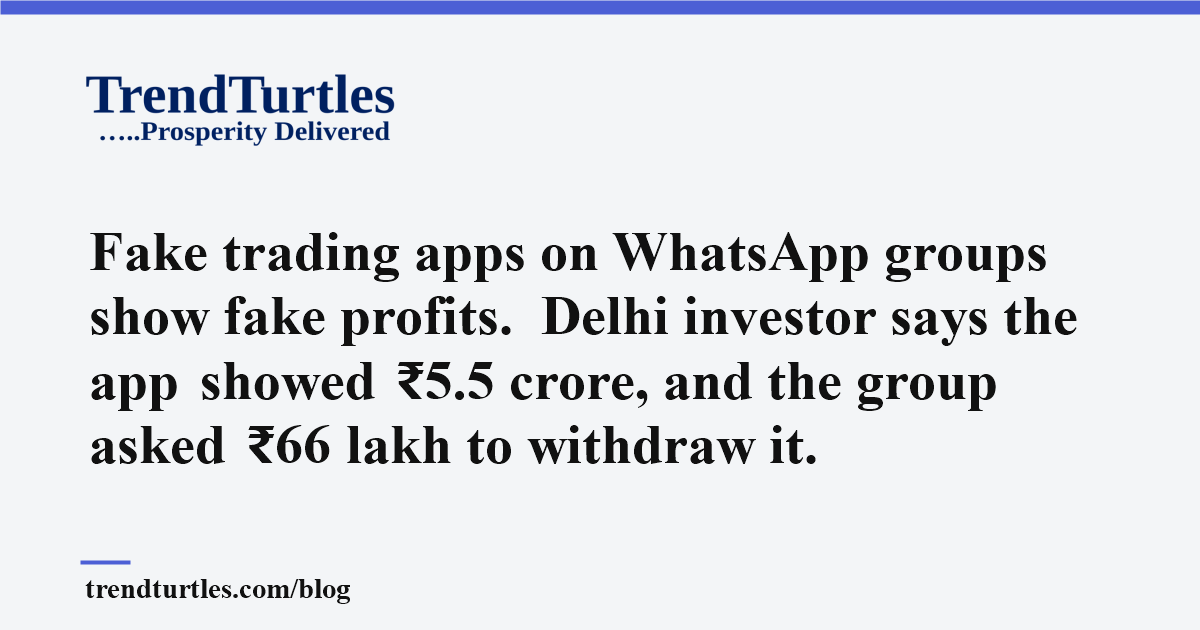
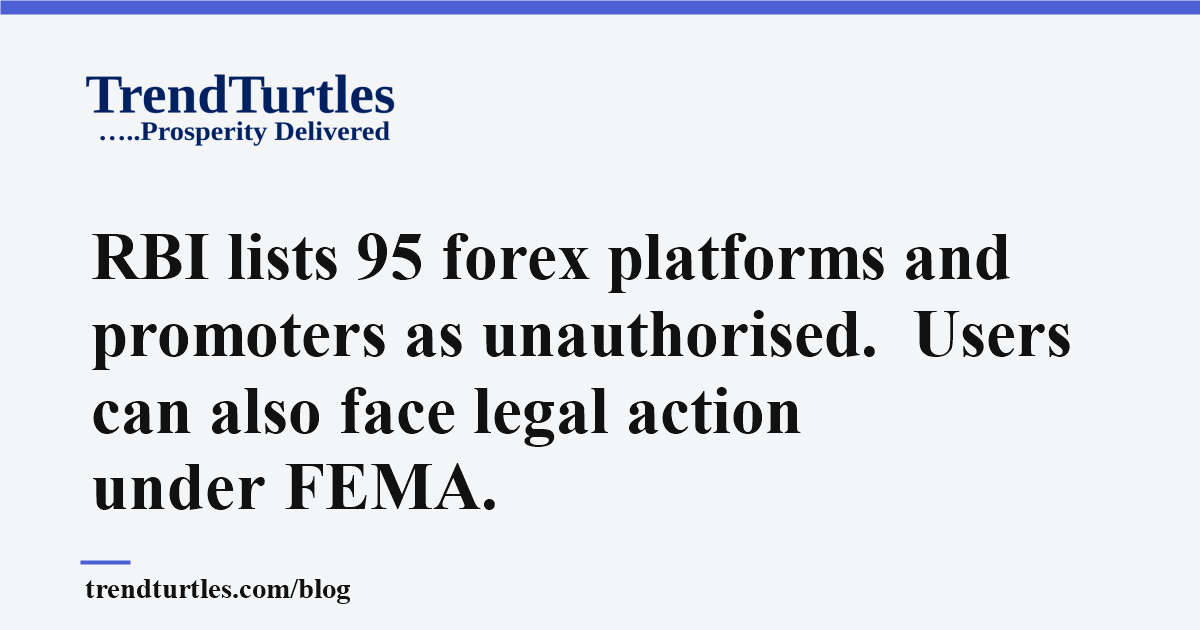
Rewrite: trading app article on RBI Alert List and FEMA (full research redo); new share image, index card, related links, sitemap

Changed region(s): [[0.0617, 0.3619, 0.8942, 0.8143]]

diff --git a/blog/trading-app-real-or-fake-india.html b/blog/trading-app-real-or-fake-india.html
@@ -3,22 +3,22 @@
 <head>
     <meta charset="UTF-8">
     <meta name="viewport" content="width=device-width, initial-scale=1.0">
-    <title>Trading App Real or Fake? How to Check Before You Pay</title>
-    <meta name="description" content="Is a trading app real or fake? A Delhi investor says an app showed ₹5.5 crore, then the group asked ₹66 lakh to withdraw it. SEBI's checks for any app.">
+    <title>Is This Trading App Safe? How to Check RBI and SEBI Lists</title>
+    <meta name="description" content="Is this trading app safe? RBI lists 95 forex platforms and promoters as unauthorised, and users can face legal action. How to check RBI and SEBI lists.">
     <meta name="author" content="Mayank Gola">
     <meta name="robots" content="index, follow, max-snippet:-1, max-image-preview:large, max-video-preview:-1">
-    <meta property="og:title" content="Trading App Real or Fake? How to Check Before You Pay">
-    <meta property="og:description" content="Is a trading app real or fake? A Delhi investor says an app showed ₹5.5 crore, then the group asked ₹66 lakh to withdraw it. SEBI's checks for any app.">
+    <meta property="og:title" content="Is This Trading App Safe? How to Check RBI and SEBI Lists">
+    <meta property="og:description" content="Is this trading app safe? RBI lists 95 forex platforms and promoters as unauthorised, and users can face legal action. How to check RBI and SEBI lists.">
     <meta property="og:url" content="https://trendturtles.com/blog/trading-app-real-or-fake-india.html">
     <meta property="og:type" content="article">
     <meta property="og:site_name" content="TrendTurtles">
-    <meta property="og:image" content="https://trendturtles.com/assets/images/trading-app-real-or-fake-india-share.png">
+    <meta property="og:image" content="https://trendturtles.com/assets/images/trading-app-real-or-fake-india-share.png?v=2">
     <meta property="og:image:width" content="1200">
     <meta property="og:image:height" content="630">
     <meta name="twitter:card" content="summary_large_image">
-    <meta name="twitter:title" content="Trading App Real or Fake? How to Check Before You Pay">
-    <meta name="twitter:description" content="Is a trading app real or fake? A Delhi investor says an app showed ₹5.5 crore, then the group asked ₹66 lakh to withdraw it. SEBI's checks for any app.">
-    <meta name="twitter:image" content="https://trendturtles.com/assets/images/trading-app-real-or-fake-india-share.png">
+    <meta name="twitter:title" content="Is This Trading App Safe? How to Check RBI and SEBI Lists">
+    <meta name="twitter:description" content="Is this trading app safe? RBI lists 95 forex platforms and promoters as unauthorised, and users can face legal action. How to check RBI and SEBI lists.">
+    <meta name="twitter:image" content="https://trendturtles.com/assets/images/trading-app-real-or-fake-india-share.png?v=2">
     <link rel="canonical" href="https://trendturtles.com/blog/trading-app-real-or-fake-india.html">
     <link rel="icon" href="/favicon.ico" sizes="any">
     <link rel="icon" href="/favicon-512.png" type="image/png">
@@ -29,13 +29,13 @@
     {
     "@context": "https://schema.org",
     "@type": "BlogPosting",
-    "headline": "Trading App Real or Fake? How to Check Before You Pay",
-    "description": "Is a trading app real or fake? A Delhi investor says an app showed ₹5.5 crore, then the group asked ₹66 lakh to withdraw it. SEBI's checks for any app.",
+    "headline": "RBI lists 95 forex platforms and promoters as unauthorised. Users can also face legal action under FEMA.",
+    "description": "Is this trading app safe? RBI lists 95 forex platforms and promoters as unauthorised, and users can face legal action. How to check RBI and SEBI lists.",
     "mainEntityOfPage": "https://trendturtles.com/blog/trading-app-real-or-fake-india.html",
     "datePublished": "2026-11-15",
-    "dateModified": "2026-11-15",
+    "dateModified": "2026-11-16",
     "inLanguage": "en-IN",
-    "image": "https://trendturtles.com/assets/images/trading-app-real-or-fake-india-share.png",
+    "image": "https://trendturtles.com/assets/images/trading-app-real-or-fake-india-share.png?v=2",
     "author": {
         "@type": "Person",
         "name": "Mayank Gola",
@@ -61,7 +61,7 @@
     "itemListElement": [
         {"@type": "ListItem", "position": 1, "name": "Home", "item": "https://trendturtles.com/"},
         {"@type": "ListItem", "position": 2, "name": "Blog", "item": "https://trendturtles.com/blog/"},
-        {"@type": "ListItem", "position": 3, "name": "Trading App Real or Fake", "item": "https://trendturtles.com/blog/trading-app-real-or-fake-india.html"}
+        {"@type": "ListItem", "position": 3, "name": "Is This Trading App Safe", "item": "https://trendturtles.com/blog/trading-app-real-or-fake-india.html"}
     ]
 }
     </script>
@@ -70,8 +70,10 @@
     "@context": "https://schema.org",
     "@type": "FAQPage",
     "mainEntity": [
-        {"@type": "Question", "name": "Does the Verified label work on iPhone apps?", "acceptedAnswer": {"@type": "Answer", "text": "No. SEBI started the label on Google Play. On an iPhone, find the app's company on SEBI's list of registered brokers (see section 4)."}},
-        {"@type": "Question", "name": "Is every app shared in a WhatsApp group fake?", "acceptedAnswer": {"@type": "Answer", "text": "Treat it as unsafe. SEBI says do not open an account on, or send money to, any trading app suggested in these groups (see section 4)."}}
+        {"@type": "Question", "name": "Is there a legal way to trade currencies in India?", "acceptedAnswer": {"@type": "Answer", "text": "Yes, on India's stock exchanges (NSE, BSE and MSE), or on platforms RBI has authorised. But dollar-rupee and other rupee trades are allowed \"only for the purpose of hedging\". In simple words: only to protect against a real currency risk, such as a payment due abroad, not to bet."}},
+        {"@type": "Question", "name": "Can a court make Google refund money lost on a trading app?", "acceptedAnswer": {"@type": "Answer", "text": "One High Court said no. In March 2026, the Madhya Pradesh High Court turned down a man who had lost money on Olymp Trade and wanted Google to refund him. The court said he downloaded the app \"with wide open eyes\" and invested on his own. In simple words: he chose the app himself, so Google is not to blame."}},
+        {"@type": "Question", "name": "Are binary options banned anywhere?", "acceptedAnswer": {"@type": "Answer", "text": "Yes. In 2018, the European Union's market regulator banned selling binary options to ordinary investors."}},
+        {"@type": "Question", "name": "Does SEBI's Verified label cover forex apps?", "acceptedAnswer": {"@type": "Answer", "text": "No. It is for share trading apps of SEBI-registered brokers (see section 6)."}}
     ]
 }
     </script>
@@ -98,75 +100,94 @@
     <p class="breadcrumb">
         <a href="../index.html">Home</a> &rsaquo;
         <a href="index.html">Blog</a> &rsaquo;
-        <span class="current">Trading App Real or Fake</span>
+        <span class="current">Is This Trading App Safe</span>
     </p>
-    <h1>Fake trading apps on WhatsApp groups show fake profits.  Delhi investor says the app showed ₹5.5 crore, and the group asked ₹66 lakh to withdraw it.</h1>
-    <p class="dek">Indians lost ₹22,495 crore to cyber fraud in 2025, and investment scams made up 75% of it.</p>
-    <p class="dek-source">Source: Delhi Police case, reported by <a href="https://the420.in/delhi-online-trading-ipo-investment-fraud-cases/" target="_blank" rel="noopener noreferrer">The420 on 24 October 2026</a>; loss figures from <a href="https://theprint.in/india/cybercrime-saw-24-spike-in-2025-indians-lost-rs-22495-crore-mainly-in-investment-scams/2859930/" target="_blank" rel="noopener noreferrer">ThePrint, 21 February 2026</a>.</p>
+    <h1>RBI lists 95 forex platforms and promoters as unauthorised.  Users can also face legal action under FEMA.</h1>
+    <p class="dek">The list had 34 names in 2022. A Pune office worker took a gold loan to put ₹8 lakh into forex trading. His complaint led to a probe of OctaFX, an app now on the list.</p>
+    <p class="dek-source">Source: RBI's <a href="https://rbi.org.in/scripts/bs_viewcontent.aspx?Id=4235" target="_blank" rel="noopener noreferrer">Alert List, updated on 19 November 2025</a>; <a href="https://www.business-standard.com/amp/article/finance/rbi-releases-alert-list-of-34-entities-barred-from-forex-trades-122090701239_1.html" target="_blank" rel="noopener noreferrer">Business Standard, 7 September 2022</a>; <a href="https://theprint.in/india/how-a-pune-investors-complaint-blew-lid-off-rs-900-cr-fraud-linked-to-octafx-forex-trading-platform/2316478" target="_blank" rel="noopener noreferrer">ThePrint, 19 October 2024</a>.</p>
 </section>
 
 <section class="section">
 
     <p class="byline">
-        By <strong>Mayank Gola</strong>, TrendTurtles &nbsp;·&nbsp; 4 min read &nbsp;·&nbsp; Published: November 2026
+        By <strong>Mayank Gola</strong>, TrendTurtles &nbsp;·&nbsp; 7 min read &nbsp;·&nbsp; Published: November 2026
     </p>
 
-    <p>Is a trading app real or fake? An investor in west Delhi learned the answer only after paying. The investor says it began in a WhatsApp group, where people said they were a company's staff and financial consultants. They suggested an online trading app. The app showed gains, so the investor kept sending money, in many payments, to bank accounts the group gave.</p>
-    <p>Soon the app showed about ₹5.5 crore as the investor's money. On 5 August 2026, the investor asked to take money out. The investor says the group first asked for ₹66 lakh as "service charges". The investor paid ₹10 lakh to take out part of the money, and the group then asked for ₹23 lakh more. The investor told the police the loss is ₹64.4 lakh, <a href="https://the420.in/delhi-online-trading-ipo-investment-fraud-cases/" target="_blank" rel="noopener noreferrer">The420 reported</a>. The police have filed a case, and these claims are not yet proved in court.</p>
-    <p>This article shows how such apps work, and how to check any app before you pay.</p>
+    <p>Harshal Pinjan, an office worker in Pune, got WhatsApp links and videos about forex trading from someone he knew. Forex trading means buying and selling currencies, like dollars, to profit when prices change. He was promised his money would double or even triple. So he took a gold loan and withdrew his LIC investments to put ₹8 lakh into a forex app.</p>
+    <p>He found he had been cheated, and went to the police in December 2021, <a href="https://theprint.in/india/how-a-pune-investors-complaint-blew-lid-off-rs-900-cr-fraud-linked-to-octafx-forex-trading-platform/2316478" target="_blank" rel="noopener noreferrer">ThePrint reported</a>. In 2022, the Enforcement Directorate (ED), the agency that probes money crimes, started its own case against the app, OctaFX. So is the trading app on your phone safe? First, see what these apps sell.</p>
 
-    <h2 id="how-it-works">1. How These WhatsApp Groups Work</h2>
-    <p>SEBI, the body that controls the share market, warned on 22 October 2026 that <a href="https://www.sebi.gov.in/sebi_data/attachdocs/oct-2026/1792675550417.pdf" target="_blank" rel="noopener noreferrer">"certain unregistered persons are offering stock tips and trading calls to investors through invitation-only WhatsApp groups"</a>. In simple words: people with no permission from SEBI run private WhatsApp groups and give share tips. Registered means SEBI has allowed the firm to work.</p>
-    <p>The group's owners pretend to be market experts, mostly using foreign numbers. Some members post fake profits and praise the "expert", so others trust the group. When a group is closed, its members are asked to join a new one.</p>
-    <p>Then the group suggests an app, which shows profit. Why can that profit not be taken out?</p>
+    <h2 id="what-they-sell">1. What These Apps Sell</h2>
+    <p>Some trading apps sell <a href="https://www.cftc.gov/LearnAndProtect/AdvisoriesAndArticles/fraudadv_binaryoptions.html" target="_blank" rel="noopener noreferrer">"binary options"</a>. In a binary option, you bet whether a price will be up or down at a set time.</p>
+    <p>US regulators say a binary option pays <a href="https://www.cftc.gov/LearnAndProtect/AdvisoriesAndArticles/fraudadv_binaryoptions.html" target="_blank" rel="noopener noreferrer">"either a pre-determined amount of cash or nothing at all"</a>. They add that "the expected return on investment is actually negative". In simple words: over many bets, the buyer loses money.</p>
+    <p>So how do these apps reach people in India?</p>
 
-    <h2 id="fake-profit">2. Why the Money on the Screen Is Not Real</h2>
-    <p>SEBI asks investors to <a href="https://www.sebi.gov.in/sebi_data/attachdocs/oct-2026/1792675550417.pdf" target="_blank" rel="noopener noreferrer">deal only with firms registered with SEBI</a>. A broker is a firm that SEBI allows to buy shares for you, and your money goes to your account with that broker. In the Delhi case, the investor says the money went to bank accounts the group gave. SEBI says fake apps make people think their money is in the <a href="https://www.sebi.gov.in/sebi_data/attachdocs/mar-2026/1774448914437.pdf" target="_blank" rel="noopener noreferrer">share market</a>. If the investor is right, the app's money was only a number on the screen.</p>
-    <p>Is this one unlucky person, or a bigger problem?</p>
+    <h2 id="how-they-reach-you">2. How These Apps Reach You</h2>
+    <p>RBI, India's central bank, says these platforms advertise on <a href="https://www.rbi.org.in/Scripts/BS_PressReleaseDisplay.aspx?prid=53216" target="_blank" rel="noopener noreferrer">social media, search engines, OTT platforms and gaming apps</a>, and that their agents also contact people directly. ED says OctaFX was <a href="https://enforcementdirectorate.gov.in/media/press-release-documents/ffdf98b7-8309-4832-a800-9e1611e25cec_Press%20Release%20PAO%20OctaFX%20372025%203.pdf" target="_blank" rel="noopener noreferrer">promoted through IPL, social media and celebrities</a>.</p>
+    <p>Some people sell "training" or "advice" about these apps on social media and video sites, or offer "demo trading" with practice money. RBI <a href="https://www.rbi.org.in/Scripts/BS_PressReleaseDisplay.aspx?prid=55201" target="_blank" rel="noopener noreferrer">warns about these too</a>. SEBI, the body that controls the share market, warns about <a href="https://www.sebi.gov.in/sebi_data/attachdocs/oct-2026/1792675550417.pdf" target="_blank" rel="noopener noreferrer">invitation-only WhatsApp groups</a>, and asks people not to open an account on any app suggested there.</p>
+    <p>And when people pay, where does the money go?</p>
 
-    <h2 id="how-big">3. Not Just One Case</h2>
-    <p><a href="https://the420.in/delhi-online-trading-ipo-investment-fraud-cases/" target="_blank" rel="noopener noreferrer">The420's report</a> has a second case. A person in Rohini, Delhi, says they lost about ₹57 lakh on an investment site from social media. So how do you check an app before you pay?</p>
+    <h2 id="where-money-goes">3. Where the Money Goes, and Why Users Lose</h2>
+    <p>ED says OctaFX took money <a href="https://enforcementdirectorate.gov.in/media/press-release-documents/a490dca5-edac-400a-b916-0d73fe571ee6_Press%20Release-%20PAO%20OctaFX%20-17.10.2025%204.pdf" target="_blank" rel="noopener noreferrer">through UPI and bank transfers</a>, into the accounts of fake Indian firms and of individuals. Then it moved the money through many "mule accounts". Mule accounts are bank accounts in other people's names, used to pass money on. Part of the money went abroad as fake payments for software, and part was kept in cryptocurrency.</p>
+    <p>ED also says early users got small profits "to build trust", while the app used fake price charts to make sure users lost. By ED's count, OctaFX took about ₹1,875 crore from Indians in just nine months, July 2022 to April 2023. ED has frozen assets worth over ₹2,681 crore, so they cannot be sold or moved. The case is <a href="https://indiankanoon.org/doc/95089971/" target="_blank" rel="noopener noreferrer">still in court</a>, so no court has yet decided whether OctaFX broke the law.</p>
+    <p>A pharmacist in Chinchwad, Pune, says that in 2025 another "binary trading" app <a href="https://medicaldialogues.in/amp/news/industry/pharma/pune-pharmacist-duped-of-rs-14-lakh-in-binary-trading-scam-over-fake-rs-68-lakh-profits-178688" target="_blank" rel="noopener noreferrer">showed him big profits</a>, then blocked his account when he tried to take money out. So is there an official list of such apps?</p>
 
-    <h2 id="how-to-check">4. How to Check if a Trading App Is Real or Fake</h2>
-    <p>SEBI gives three checks: <a href="https://www.sebi.gov.in/sebi_data/attachdocs/mar-2026/1774448914437.pdf" target="_blank" rel="noopener noreferrer">Check, Validate, Verify</a>.</p>
-    <ol>
-        <li><strong>Check the bank account.</strong> Before you pay, check the account number in SEBI's Saathi app, under "SEBI Check".</li>
-        <li><strong>Validate the UPI ID you pay to.</strong> SEBI says to check that the UPI ID has the word "Valid" in it. You can confirm it in SEBI Check too.</li>
-        <li><strong>Verify the app.</strong> On Google Play, the apps of brokers registered with SEBI show a "Verified" label. Look for it before you install. On an iPhone, find the app's company on <a href="https://www.sebi.gov.in/intermediaries.html" target="_blank" rel="noopener noreferrer">SEBI's list of registered brokers</a> instead.</li>
-        <li><strong>Do not pay to take money out.</strong> If an app asks for fees first, stop paying.</li>
-        <li><strong>Report it fast.</strong> Call 1930, the <a href="https://www.pib.gov.in/PressReleseDetailm.aspx?PRID=2042130" target="_blank" rel="noopener noreferrer">national helpline for online money fraud</a>, or file a complaint on cybercrime.gov.in. Keep screenshots and payment receipts.</li>
-</ol>
+    <h2 id="alert-list">4. RBI's Alert List, and Four Apps We Checked</h2>
+    <p>RBI keeps an <a href="https://rbi.org.in/scripts/bs_viewcontent.aspx?Id=4235" target="_blank" rel="noopener noreferrer">Alert List</a> of apps and websites that are not authorised to offer forex trading. Authorised means RBI has allowed it under FEMA, India's law on foreign currency. The list also names promoters, the people and firms that advertise such apps. Its latest update, on 19 November 2025, has 95 names. RBI also keeps a <a href="https://rbi.org.in/scripts/bs_viewcontent.aspx?Id=4080" target="_blank" rel="noopener noreferrer">list of authorised platforms</a>.</p>
+    <p>Our Google Trends data shows that searches in India for Pocket Option, Olymp Trade and Deriv rose in the 12 months to 31 October 2026. On 16 November 2026, we searched both RBI lists for these three apps and OctaFX.</p>
     <div style="overflow-x: auto;">
     <table class="text-table">
-        <tr><td><strong></strong></td><td><strong>Real broker app</strong></td><td><strong>App from a WhatsApp group</strong></td></tr>
-        <tr><td>Allowed by SEBI</td><td>Yes</td><td>Not shown</td></tr>
-        <tr><td>"Verified" label on Google Play</td><td>Yes</td><td>No</td></tr>
-        <tr><td>Where your money goes</td><td>Your account with the broker</td><td>Bank accounts the group gives</td></tr>
-        <tr><td>Taking money out</td><td>Sent to your bank account</td><td>Delhi case (investor's claim): the group asks for more money first</td></tr>
+        <tr><td><strong>App</strong></td><td><strong>On RBI's Alert List?</strong></td><td><strong>On RBI's list of authorised platforms?</strong></td></tr>
+        <tr><td>OctaFX</td><td>Yes, entry 27 of 95</td><td>No</td></tr>
+        <tr><td>Olymp Trade</td><td>Yes, entry 28 of 95</td><td>No</td></tr>
+        <tr><td>Pocket Option</td><td>Yes, entry 37 of 95</td><td>No</td></tr>
+        <tr><td>Deriv</td><td>No</td><td>No</td></tr>
     </table>
     </div>
-    <p><strong>In a WhatsApp share tips group?</strong> SEBI says ignore its tips, and leave if you are moved to a "new group".</p>
-    <p><strong>If you have already paid:</strong> do step 5 today.</p>
-    <p><strong>If you are new to trading:</strong> do steps 1 to 3 before your first payment.</p>
+    <p>Deriv is on neither list. So an app missing from the Alert List is not always allowed. What happens to people who trade on an app RBI has not allowed?</p>
+
+    <h2 id="fema">5. What the Law Says About Users</h2>
+    <p>RBI says people in India who trade forex on platforms it has not allowed <a href="https://www.rbi.org.in/scripts/BS_PressReleaseDisplay.aspx?prid=54333" target="_blank" rel="noopener noreferrer">"shall render themselves liable for legal action under the FEMA"</a>. In simple words: the user can face action too, not only the app. Paying in rupees <a href="https://www.rbi.org.in/Scripts/BS_PressReleaseDisplay.aspx?prid=55201" target="_blank" rel="noopener noreferrer">does not change this</a>, RBI says.</p>
+    <p>Under FEMA, the penalty can go <a href="https://enforcementdirectorate.gov.in/media/fema/c24cce9a-6765-4b22-a41a-cde7ec7af79c_FEMA_ACT_1999.pdf" target="_blank" rel="noopener noreferrer">"up to thrice the sum involved"</a>. In simple words: up to three times the money used in the trade. We found no reported case of a user being fined so far. The cases we found are against the apps, their agents and promoters. So what can you do to stay safe?</p>
+
+    <h2 id="how-to-check">6. How to Check if a Trading App Is Safe</h2>
+    <ol>
+        <li><strong>Search RBI's Alert List.</strong> Open the <a href="https://rbi.org.in/scripts/bs_viewcontent.aspx?Id=4235" target="_blank" rel="noopener noreferrer">Alert List</a> and use "Find in page" in your phone's browser menu to search the app's name. If it is there, RBI has warned against it.</li>
+        <li><strong>For forex, check RBI's list of authorised platforms.</strong> Open the <a href="https://rbi.org.in/scripts/bs_viewcontent.aspx?Id=4080" target="_blank" rel="noopener noreferrer">list</a> and search the name. If it is not there, RBI has not allowed it.</li>
+        <li><strong>For shares, check SEBI.</strong> SEBI keeps a <a href="https://www.sebi.gov.in/intermediaries.html" target="_blank" rel="noopener noreferrer">list of registered brokers</a>, firms allowed to trade shares for you. Open it and search the name of the company behind the app. On Google Play, a registered broker's app shows a <a href="https://www.sebi.gov.in/sebi_data/attachdocs/mar-2026/1774448914437.pdf" target="_blank" rel="noopener noreferrer">"Verified"</a> label.</li>
+        <li><strong>Do not send money abroad for trading margin.</strong> Margin is the money a platform asks you to put up before you trade. RBI's <a href="https://www.rbi.org.in/Scripts/FAQDisplay.aspx?Id=146" target="_blank" rel="noopener noreferrer">FAQ</a> says LRS, the scheme for sending money out of India, cannot be used for this.</li>
+        <li><strong>Never pay to take money out.</strong> If an app asks for fees before you can withdraw, stop paying.</li>
+        <li><strong>If you have paid, report it fast.</strong> Call 1930, the <a href="https://www.pib.gov.in/PressReleasePage.aspx?PRID=2290377" target="_blank" rel="noopener noreferrer">national helpline for financial fraud</a>, or file a complaint on <a href="https://www.pib.gov.in/PressReleasePage.aspx?PRID=2297626" target="_blank" rel="noopener noreferrer">cybercrime.gov.in</a>. RBI's FAQ also names ED and the state police.</li>
+    </ol>
+    <p><strong>If someone sent you an app link or a "training" offer:</strong> do steps 1 to 3 before you install anything.</p>
+    <p><strong>If you already trade forex on an app:</strong> do steps 1 and 2 today, and step 4 before your next payment.</p>
+    <p><strong>If you have lost money:</strong> do step 6 today, and do not pay anyone who promises to get it back for a fee.</p>
 
     <div class="key-takeaways">
         <h2>Key Takeaways</h2>
         <ul>
-            <li>Money sent to bank accounts a group gives does not reach the share market.</li>
-            <li>Before paying, check the app, the bank account and the UPI ID with SEBI.</li>
-            <li>If an app wants fees before you take money out, stop and report it.</li>
+            <li>Binary options pay a fixed amount or nothing, and regulators say buyers lose over time.</li>
+            <li>OctaFX, Olymp Trade and Pocket Option are on RBI's Alert List; a name missing from it is not proof of RBI approval.</li>
+            <li>Check RBI's and SEBI's lists before you send money to any trading app.</li>
         </ul>
     </div>
 
     <div class="faq">
         <h2>Frequently Asked Questions</h2>
         <div class="faq-item">
-            <h3 id="faq-iphone">Does the Verified label work on iPhone apps?</h3>
-            <p>No. SEBI started the label on Google Play. On an iPhone, find the app's company on SEBI's list of registered brokers (see <a href="#how-to-check">section 4</a>).</p>
+            <h3 id="faq-legal-forex">Is there a legal way to trade currencies in India?</h3>
+            <p>Yes, on <a href="https://www.rbi.org.in/scripts/BS_PressReleaseDisplay.aspx?prid=54333" target="_blank" rel="noopener noreferrer">India's stock exchanges</a> (NSE, BSE and MSE), or on platforms RBI has authorised. But dollar-rupee and other rupee trades are allowed <a href="https://www.rbi.org.in/Scripts/BS_PressReleaseDisplay.aspx?prid=57628" target="_blank" rel="noopener noreferrer">"only for the purpose of hedging"</a>. In simple words: only to protect against a real currency risk, such as a payment due abroad, not to bet.</p>
         </div>
         <div class="faq-item">
-            <h3 id="faq-every">Is every app shared in a WhatsApp group fake?</h3>
-            <p>Treat it as unsafe. SEBI says do not open an account on, or send money to, any trading app suggested in these groups (see <a href="#how-to-check">section 4</a>).</p>
+            <h3 id="faq-refund">Can a court make Google refund money lost on a trading app?</h3>
+            <p>One High Court said no. In March 2026, the Madhya Pradesh High Court turned down a man who had lost money on Olymp Trade and wanted Google to refund him. The court said he downloaded the app <a href="https://indiankanoon.org/doc/182320008/" target="_blank" rel="noopener noreferrer">"with wide open eyes"</a> and invested on his own. In simple words: he chose the app himself, so Google is not to blame.</p>
+        </div>
+        <div class="faq-item">
+            <h3 id="faq-banned-abroad">Are binary options banned anywhere?</h3>
+            <p>Yes. In 2018, the European Union's market regulator <a href="https://www.esma.europa.eu/press-news/esma-news/esma-agrees-prohibit-binary-options-and-restrict-cfds-protect-retail-investors" target="_blank" rel="noopener noreferrer">banned</a> selling binary options to ordinary investors.</p>
+        </div>
+        <div class="faq-item">
+            <h3 id="faq-verified">Does SEBI's Verified label cover forex apps?</h3>
+            <p>No. It is for share trading apps of SEBI-registered brokers (see <a href="#how-to-check">section 6</a>).</p>
         </div>
     </div>
 

diff --git a/blog/gold-fraud-india.html b/blog/gold-fraud-india.html
@@ -33,7 +33,7 @@
         "description": "Over 1 lakh people lost ₹1,404 crore in one gold company. How gold fraud works: fake hallmarks, fake apps, vanishing schemes, pledged gold, and the checks.",
         "mainEntityOfPage": "https://trendturtles.com/blog/gold-fraud-india.html",
         "datePublished": "2026-10-28",
-        "dateModified": "2026-11-15",
+        "dateModified": "2026-11-16",
         "inLanguage": "en-IN",
         "image": "https://trendturtles.com/assets/images/gold-fraud-india-share.png",
         "author": {
@@ -194,7 +194,7 @@
     <div class="related-reading">
         <h2>Related Reading</h2>
         <ul>
-            <li><a href="trading-app-real-or-fake-india.html">Trading App Real or Fake? How to Check Before You Pay</a></li>
+            <li><a href="trading-app-real-or-fake-india.html">Is This Trading App Safe? How to Check RBI and SEBI Lists</a></li>
             <li><a href="gold-hallmark-check-india.html">Fake Gold Hallmark: An 18-Carat Chain Had Only About 10% Gold</a></li>
             <li><a href="gold-making-charges-india-real-cost.html">Gold Making Charges and Wastage: How Jewellers Overcharge</a></li>
             <li><a href="digital-gold-safe-india.html">Is Digital Gold Safe in India? No Regulator, Real Cases</a></li>

diff --git a/blog/digital-gold-safe-india.html b/blog/digital-gold-safe-india.html
@@ -33,7 +33,7 @@
         "description": "Is digital gold safe? People made 21.9 crore UPI purchases in January 2026, but no regulator watches the apps. Real cases, costs and 7 steps before you buy.",
         "mainEntityOfPage": "https://trendturtles.com/blog/digital-gold-safe-india.html",
         "datePublished": "2026-10-11",
-        "dateModified": "2026-11-15",
+        "dateModified": "2026-11-16",
         "inLanguage": "en-IN",
         "image": "https://trendturtles.com/assets/images/digital-gold-safe-india-share.png?v=4",
         "author": {
@@ -190,7 +190,7 @@
     <div class="related-reading">
         <h2>Related Reading</h2>
         <ul>
-            <li><a href="trading-app-real-or-fake-india.html">Trading App Real or Fake? How to Check Before You Pay</a></li>
+            <li><a href="trading-app-real-or-fake-india.html">Is This Trading App Safe? How to Check RBI and SEBI Lists</a></li>
             <li><a href="gold-fraud-india.html">Gold Fraud in India: Six Ways Buyers Are Cheated</a></li>
             <li><a href="etf-price-vs-nav-india.html">ETF's stock market price is not its real value</a></li>
             <li><a href="gold-etf-vs-digital-gold-india.html">Gold ETF or Digital Gold, Which Is Better?</a></li>

diff --git a/blog/index.html b/blog/index.html
@@ -83,8 +83,8 @@
 
         <a class="blog-card" href="trading-app-real-or-fake-india.html">
             <div class="blog-content">
-                <h3>Fake trading apps on WhatsApp groups show fake profits.  Delhi investor says the app showed ₹5.5 crore, and the group asked ₹66 lakh to withdraw it.</h3>
-                <p>Indians lost ₹22,495 crore to cyber fraud in 2025, and investment scams made up 75% of it.</p>
+                <h3>RBI lists 95 forex platforms and promoters as unauthorised.  Users can also face legal action under FEMA.</h3>
+                <p>The list had 34 names in 2022. A Pune office worker took a gold loan to put ₹8 lakh into forex trading. His complaint led to a probe of OctaFX, an app now on the list.</p>
             </div>
         </a>
 
